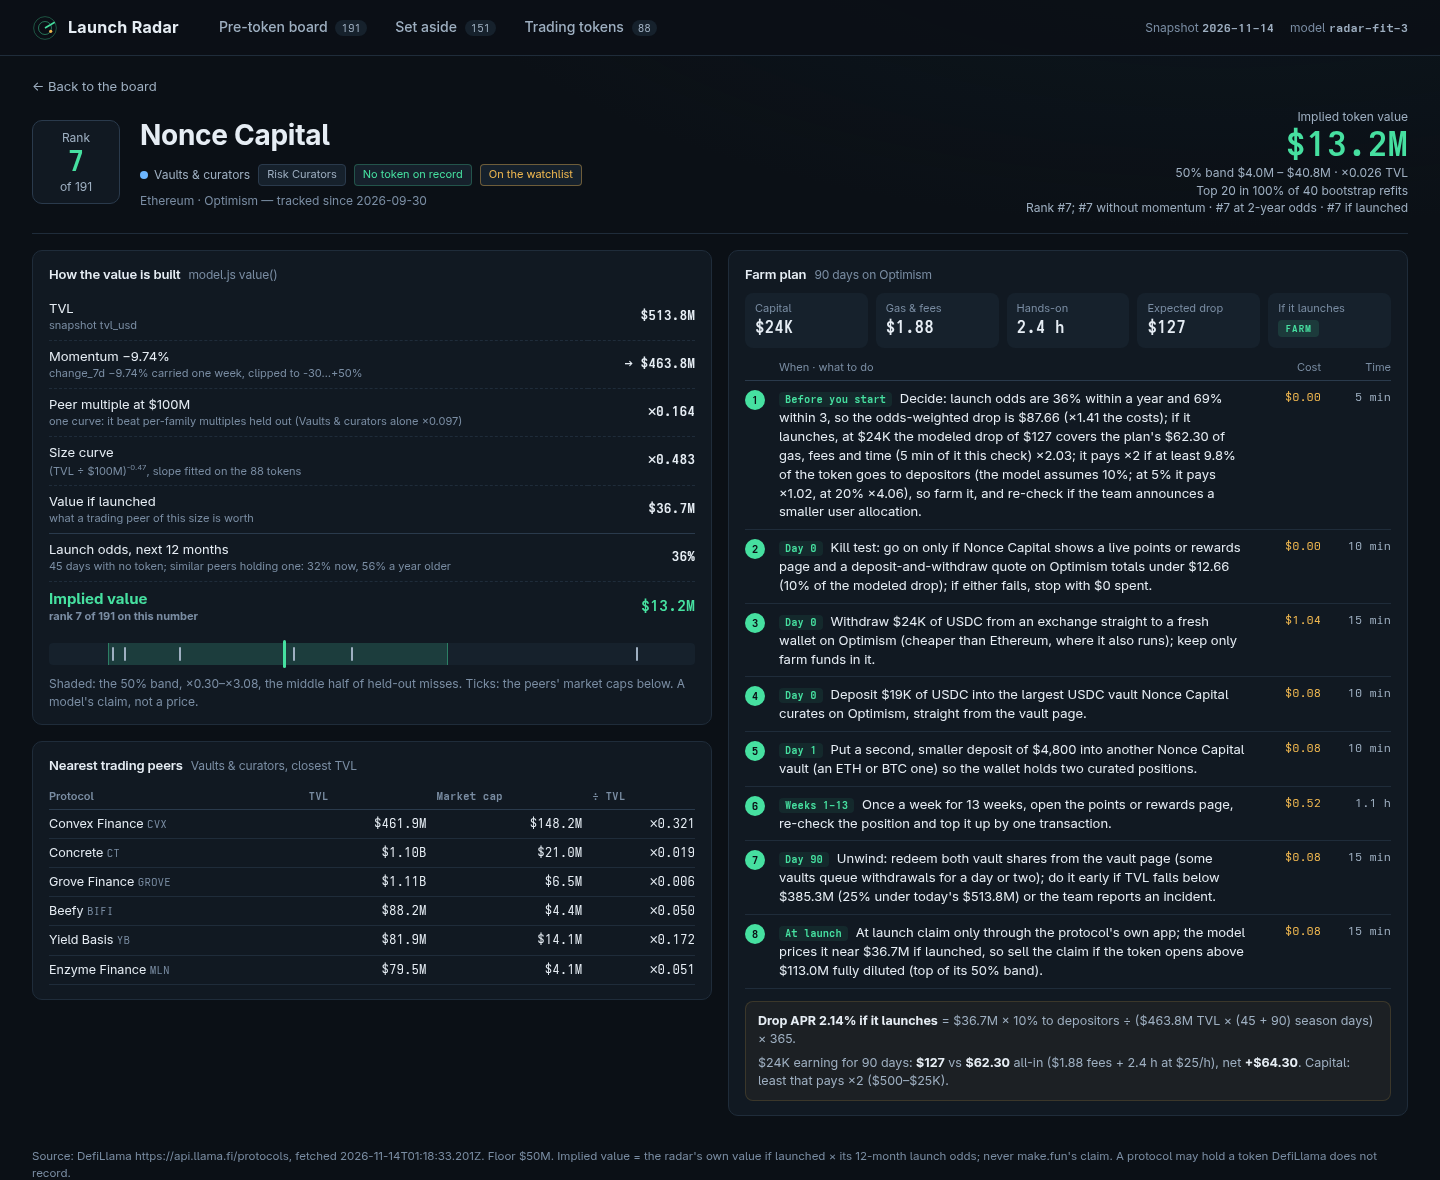
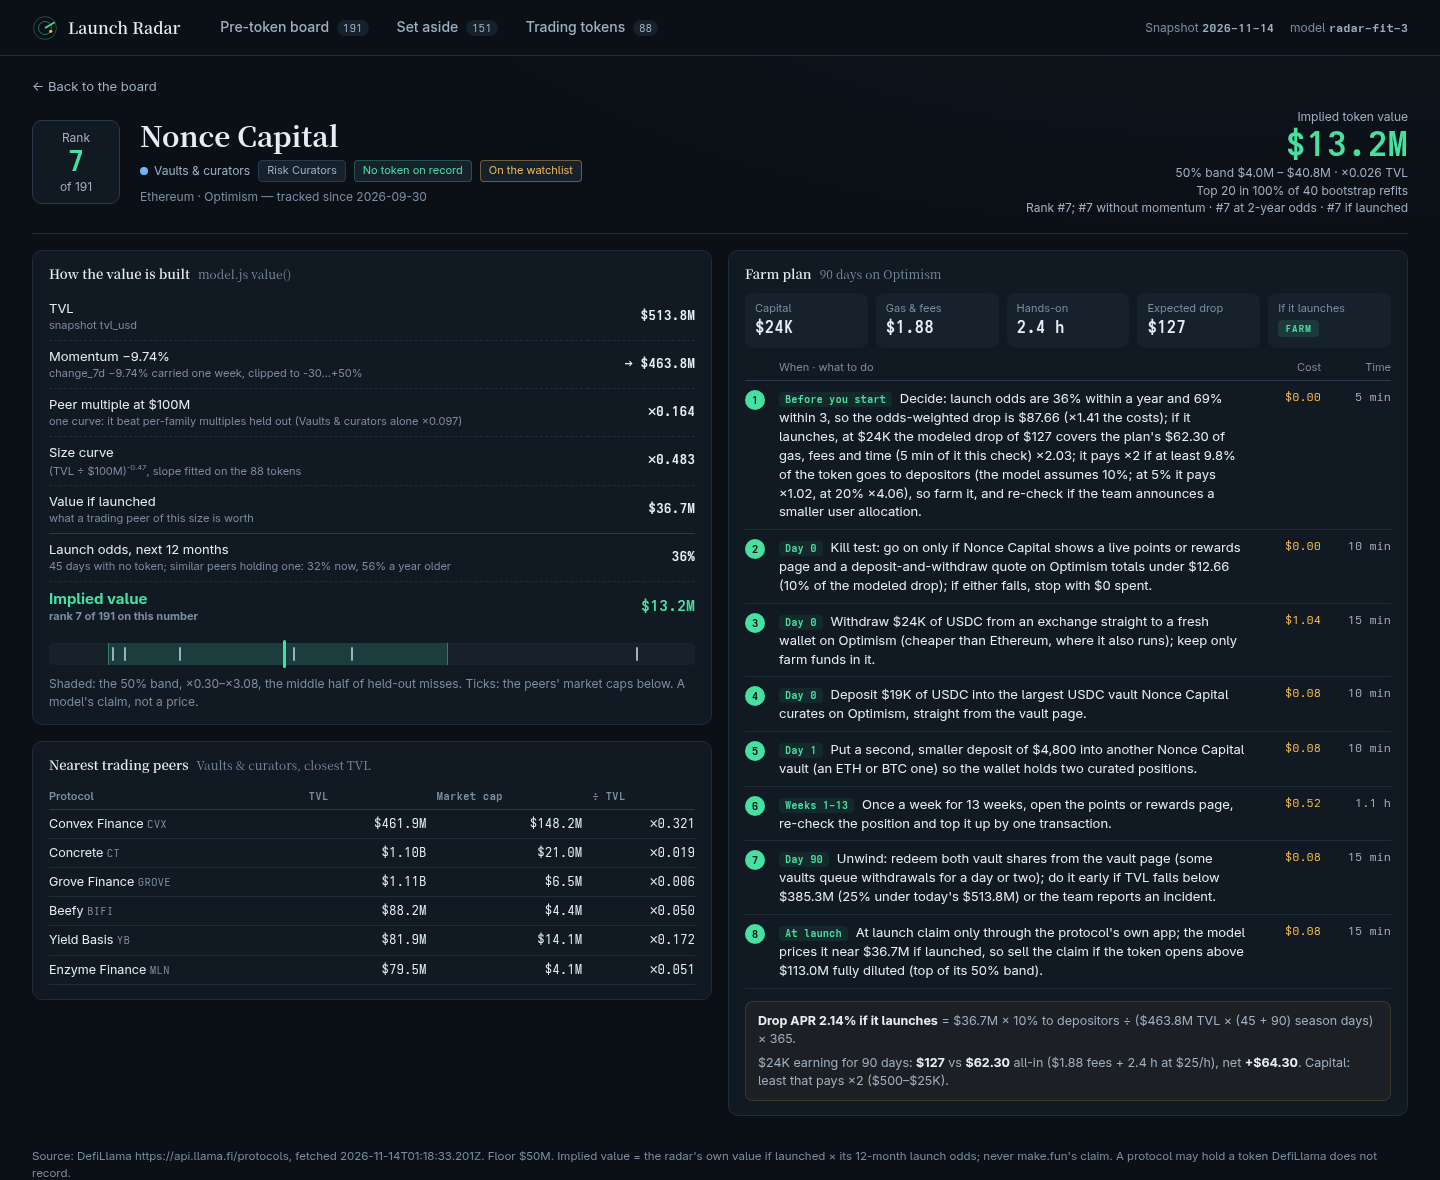
Design: serif display type; board capture at the full 1440 px; with filters on, the controls sit beside the chart so the shortlist starts higher

diff --git a/dashboard/app.js b/dashboard/app.js
@@ -173,6 +173,18 @@
         <td class="num apr">${(r.v.apr * 100).toFixed(1)}%</td>
         <td class="plan">${verdictTag(r.plan.verdict)} <span class="pmult">pays ${mult(r.plan.drop / r.plan.all_in)}</span><small>${usd(r.plan.drop)} drop vs ${usd(r.plan.all_in)} cost · ${usd(r.plan.stake)} on ${esc(r.plan.chain)}</small></td></tr>`;
     }).join('');
+    // The controls: under the hero on the cover, beside the chart when filters are on.
+    const ctl = `    <section class="filters">
+      <label class="search"><input id="q" type="search" value="${esc(st.q)}" placeholder="Search name, category or chain" autocomplete="off" aria-label="Search"></label>
+      <div class="field"><span>Scope</span>${seg('scope', [['all', 'All'], ['watch', 'Watchlist'], ['outside', 'Outside it'], ['early', 'Below $50M'], ['stable', 'Top 20, all variants']])}</div>
+      <div class="field"><span>Plan</span>${seg('verdict', [['', 'Any'], ['farm', 'Farm'], ['marginal', 'Marginal'], ['skip', 'Skip']])}</div>
+      <label class="field"><span>Deposit</span><select id="dep">${['', 1000, 5000, 10000, 25000].map((d) => `<option value="${d}"${String(d) === st.dep ? ' selected' : ''}>${d ? usd(d) : 'Auto: least that pays'}</option>`).join('')}</select></label>
+      <label class="field"><span>Chain</span><select id="chain"><option value="">All chains</option>${Object.keys(chains).sort((a, b) => chains[b] - chains[a] || (a < b ? -1 : 1)).map((c) => `<option${c === st.chain ? ' selected' : ''}>${esc(c)}</option>`).join('')}</select></label>
+      <div class="count"><b>${shown.length}</b> of ${rows.length} shown${active ? ` · <a href="${link({ q: '', fam: '', chain: '', scope: 'all', verdict: '', dep: '' })}">clear filters</a>` : ''}</div>
+    </section>
+    <section class="filters basket"><label class="field"><span>Budget</span><select id="bud">${[10000, 25000, 50000, 100000].map((d) => `<option value="${d}"${String(d) === st.bud ? ' selected' : ''}>${usd(d)}</option>`).join('')}</select></label>
+      <span>Basket, best net per dollar of the ${shown.length} shown, within ${usd(+st.bud)} and ${HOURS} h: ${pick.map((r) => `<a href="${link({ p: r.p.slug })}">${esc(r.p.name)}</a> ${usd(r.plan.stake)}`).join(' · ') || 'none pays'} → <b>${usd(cap)}</b>, ${hrs.toFixed(1)} h, net <b class="up">+${usd(pick.reduce((s, r) => s + r.plan.net, 0))}</b></span></section>
+    <section class="filters"><div class="chips" role="group" aria-label="Family">${famLinks}</div></section>`;
     return `<section class="strip">
       <div><b>${watchCov}/${S.watchlist.length}</b><span>watchlist covered</span></div>
       <div><b>${rows.length}</b><span>pre-token ranked, ${rows.filter((r) => r.below).length} under $50M</span></div>
@@ -186,22 +198,12 @@
     <section class="hero${active ? ' slim' : ''}">
       <div class="lead">
         <h1>${rows.length} pre-token protocols, ranked by token value × launch odds</h1>
-        ${active ? `<p class="note">${CHECKS.filter((c) => c[0]).length}/${CHECKS.length} self-checks pass; the value model and its held-out tests are on the <a href="${link({ q: '', fam: '', chain: '', scope: 'all', verdict: '', dep: '' })}">unfiltered board</a>. With filters on, the board leads with the shortlist.</p>` : `<div class="card checks"><h2>Self-checks <span>run in this page on load</span></h2><ul>${CHECKS.map(([ok, t]) => `<li class="${ok ? 'ok' : 'bad'}">${ok ? '✓' : '✗'} ${t}</li>`).join('')}</ul></div>`}
+        ${active ? `<p class="note">${CHECKS.filter((c) => c[0]).length}/${CHECKS.length} self-checks pass; the value model and its held-out tests are on the <a href="${link({ q: '', fam: '', chain: '', scope: 'all', verdict: '', dep: '' })}">unfiltered board</a>. With filters on, the board leads with the shortlist.</p>${ctl}` : `<div class="card checks"><h2>Self-checks <span>run in this page on load</span></h2><ul>${CHECKS.map(([ok, t]) => `<li class="${ok ? 'ok' : 'bad'}">${ok ? '✓' : '✗'} ${t}</li>`).join('')}</ul></div>`}
       </div>
       ${active ? '' : formula()}
       <div class="card chartcard"><h2>Radar <span>days without a token × airdrop yield</span></h2>${chart(shown)}</div>
     </section>
-    <section class="filters">
-      <label class="search"><input id="q" type="search" value="${esc(st.q)}" placeholder="Search name, category or chain" autocomplete="off" aria-label="Search"></label>
-      <div class="field"><span>Scope</span>${seg('scope', [['all', 'All'], ['watch', 'Watchlist'], ['outside', 'Outside it'], ['early', 'Below $50M'], ['stable', 'Top 20, all variants']])}</div>
-      <div class="field"><span>Plan</span>${seg('verdict', [['', 'Any'], ['farm', 'Farm'], ['marginal', 'Marginal'], ['skip', 'Skip']])}</div>
-      <label class="field"><span>Deposit</span><select id="dep">${['', 1000, 5000, 10000, 25000].map((d) => `<option value="${d}"${String(d) === st.dep ? ' selected' : ''}>${d ? usd(d) : 'Auto: least that pays'}</option>`).join('')}</select></label>
-      <label class="field"><span>Chain</span><select id="chain"><option value="">All chains</option>${Object.keys(chains).sort((a, b) => chains[b] - chains[a] || (a < b ? -1 : 1)).map((c) => `<option${c === st.chain ? ' selected' : ''}>${esc(c)}</option>`).join('')}</select></label>
-      <div class="count"><b>${shown.length}</b> of ${rows.length} shown${active ? ` · <a href="${link({ q: '', fam: '', chain: '', scope: 'all', verdict: '', dep: '' })}">clear filters</a>` : ''}</div>
-    </section>
-    <section class="filters basket"><label class="field"><span>Budget</span><select id="bud">${[10000, 25000, 50000, 100000].map((d) => `<option value="${d}"${String(d) === st.bud ? ' selected' : ''}>${usd(d)}</option>`).join('')}</select></label>
-      <span>Basket, best net per dollar of the ${shown.length} shown, within ${usd(+st.bud)} and ${HOURS} h: ${pick.map((r) => `<a href="${link({ p: r.p.slug })}">${esc(r.p.name)}</a> ${usd(r.plan.stake)}`).join(' · ') || 'none pays'} → <b>${usd(cap)}</b>, ${hrs.toFixed(1)} h, net <b class="up">+${usd(pick.reduce((s, r) => s + r.plan.net, 0))}</b></span></section>
-    <section class="filters"><div class="chips" role="group" aria-label="Family">${famLinks}</div></section>
+    ${active ? '' : ctl}
     <div class="tablewrap"><table class="board">
       <thead><tr>${th('rank', 'Rank')}${th('name', 'Protocol')}<th>Family</th>${th('tvl', 'TVL', 'num')}${th('g', '7d', 'num')}${th('age', 'No token', 'num')}${th('value', 'Implied value · 50% band', 'val')}${th('odds', 'Odds 12m', 'num')}${th('apr', 'Drop APR', 'num')}${th('plan', 'Farm plan · if it launches', 'plan')}</tr></thead>
       <tbody>${body || '<tr><td colspan="10" class="empty">No protocol matches these filters.</td></tr>'}</tbody></table></div>`;

diff --git a/dashboard/style.css b/dashboard/style.css
@@ -4,12 +4,15 @@
 --accent:#46e0a0;--amber:#f2b950;--red:#f27a72;--green:#46e0a0;
 --sans:"Inter","Adwaita Sans",system-ui,-apple-system,"Segoe UI",Roboto,sans-serif;
 --mono:"JetBrains Mono","Adwaita Mono",ui-monospace,"SF Mono",Menlo,Consolas,monospace;
+--serif:"Source Serif 4","Iowan Old Style",Charter,Georgia,"Noto Serif CJK JP",serif;
 --r:10px;
 }
 *{box-sizing:border-box;}
 html{background:var(--bg);}
 body{margin:0;color:var(--text);font:14px/1.45 var(--sans);background:radial-gradient(1200px 500px at 85% -10%,#12324033,transparent 70%),var(--bg);min-height:100vh;}
 a{color:inherit;text-decoration:none;}
+h1,.card h2,.brand span,.dhead h1,.intro h1{font-family:var(--serif);font-weight:600;letter-spacing:0;}
+.lead h1,.dhead h1{font-size:30px;line-height:1.15;}
 h1,h2{margin:0;letter-spacing:-.01em;}
 small{display:block;color:var(--muted);font-size:12px;}
 sub,sup{font-size:.7em;}
@@ -59,11 +62,11 @@ main{padding:20px 32px 24px;max-width:1440px;margin:0 auto;}
 .f-vault{--c:#6cb6ff}.f-lend{--c:#46e0a0}.f-dex{--c:#c39bf0}.f-deriv{--c:#f7906c}
 .f-stable{--c:#f2cf5b}.f-rwa{--c:#6fd8d0}.f-stake{--c:#ff9fbf}.f-infra{--c:#a6b4c4}
 .dot{fill:var(--c);stroke:var(--c);}
-.filters{display:flex;gap:18px;align-items:center;margin-bottom:10px;flex-wrap:wrap;}
+.filters{display:flex;gap:12px;align-items:center;margin-bottom:10px;flex-wrap:wrap;}
 .field{display:flex;align-items:center;gap:8px;}
 .field > span{color:var(--dim);font-size:11px;text-transform:uppercase;letter-spacing:.08em;}
 .search input,select{background:var(--panel);border:var(--b2);color:var(--text);border-radius:8px;height:32px;padding:0 10px;font:13px var(--sans);}
-.search input{width:260px;}
+.search input{width:170px;}
 .search input:focus,select:focus{outline:2px solid #46e0a066;border-color:var(--accent);}
 .chips{display:flex;gap:6px;flex-wrap:wrap;}
 .chip{display:inline-flex;align-items:center;gap:6px;height:28px;padding:0 10px;border:var(--b2);border-radius:16px;color:var(--muted);font-size:12px;}
